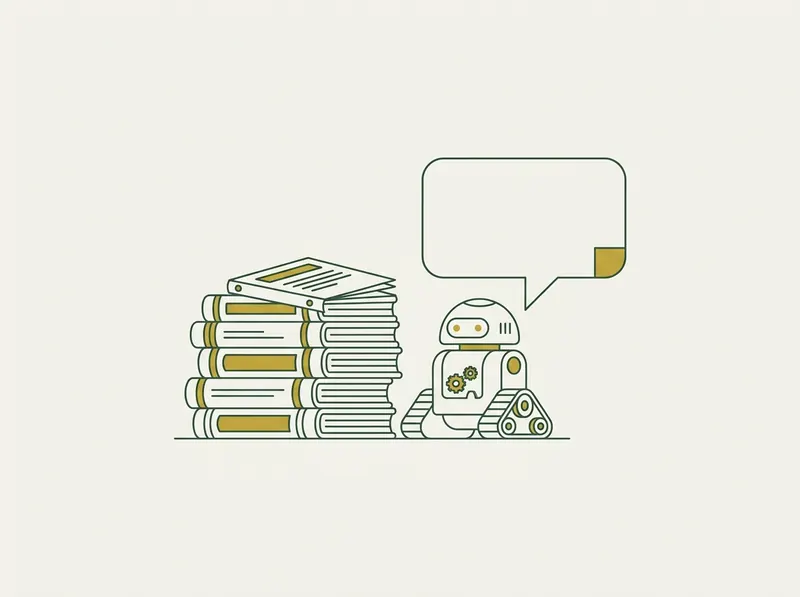
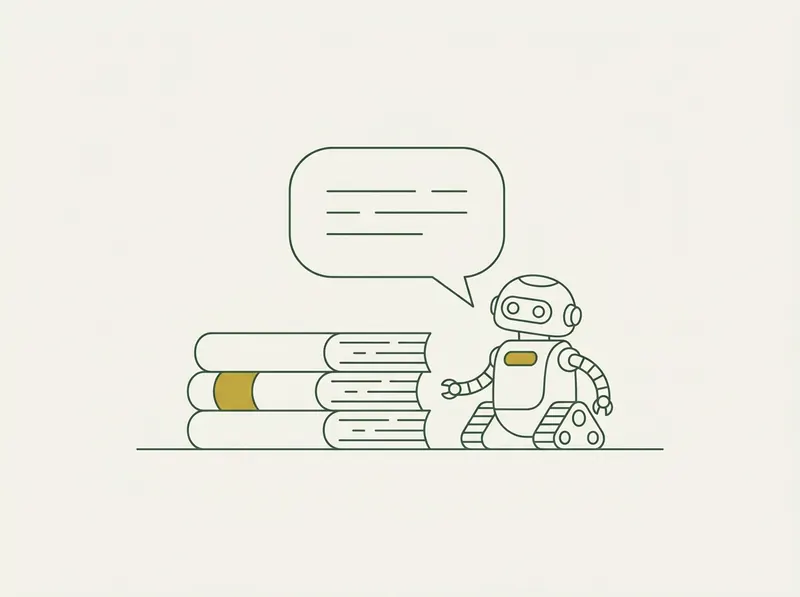
AI回答の絵を差し替え、研修カードの改行を調整

diff --git a/index.html b/index.html
@@ -181,6 +181,7 @@ footer{padding:48px var(--gut) 40px;display:grid;grid-template-columns:repeat(12
 .hero-photo~.hero-art{display:none}
 /* 「こんなことができます」: カード上部にAIで作った絵（地色のクリーム） */
 .services .cards li{padding-top:0;overflow:hidden}
+.nw{display:inline-block}
 .can-img{display:block;width:calc(100% + 44px);max-width:none;height:auto;aspect-ratio:4/3;object-fit:cover;margin:0 -22px 4px}
 .band{margin:0;height:clamp(180px,22vw,320px);overflow:hidden;border-top:3px solid var(--accent)}
 .band img{width:100%;height:100%;object-fit:cover;display:block}
@@ -340,7 +341,7 @@ h1,h2,h3,.statement,.lead2,.sub,.cta-link,.l2{word-break:auto-phrase}
     <li><img class="can-img" src="img/can-invoice.webp" alt="表から請求書を作り封筒で送る絵" width="800" height="597" loading="lazy"><h3>請求書づくりの自動化</h3><p>作成からPDFのメール送付まで</p></li>
     <li><img class="can-img" src="img/can-video.webp" alt="作業の手元を映す動画の絵" width="800" height="597" loading="lazy"><h3>動画マニュアル</h3><p>新人も字を読まずに分かる</p></li>
     <li><img class="can-img" src="img/can-qa.webp" alt="マニュアルの横でAIが答える絵" width="800" height="597" loading="lazy"><h3>社内の質問にAIが回答</h3><p>マニュアルを覚えたAIがすぐ答える</p></li>
-    <li><img class="can-img" src="img/can-training.webp" alt="研修の様子を後ろから見た絵" width="800" height="597" loading="lazy"><h3>AI活用研修</h3><p>基本から社内ルールづくりまで</p></li>
+    <li><img class="can-img" src="img/can-training.webp" alt="研修の様子を後ろから見た絵" width="800" height="597" loading="lazy"><h3>AI活用研修</h3><p><span class="nw">基本から</span><span class="nw">社内ルール</span><span class="nw">づくりまで</span></p></li>
   </ul>
 </section>
 
